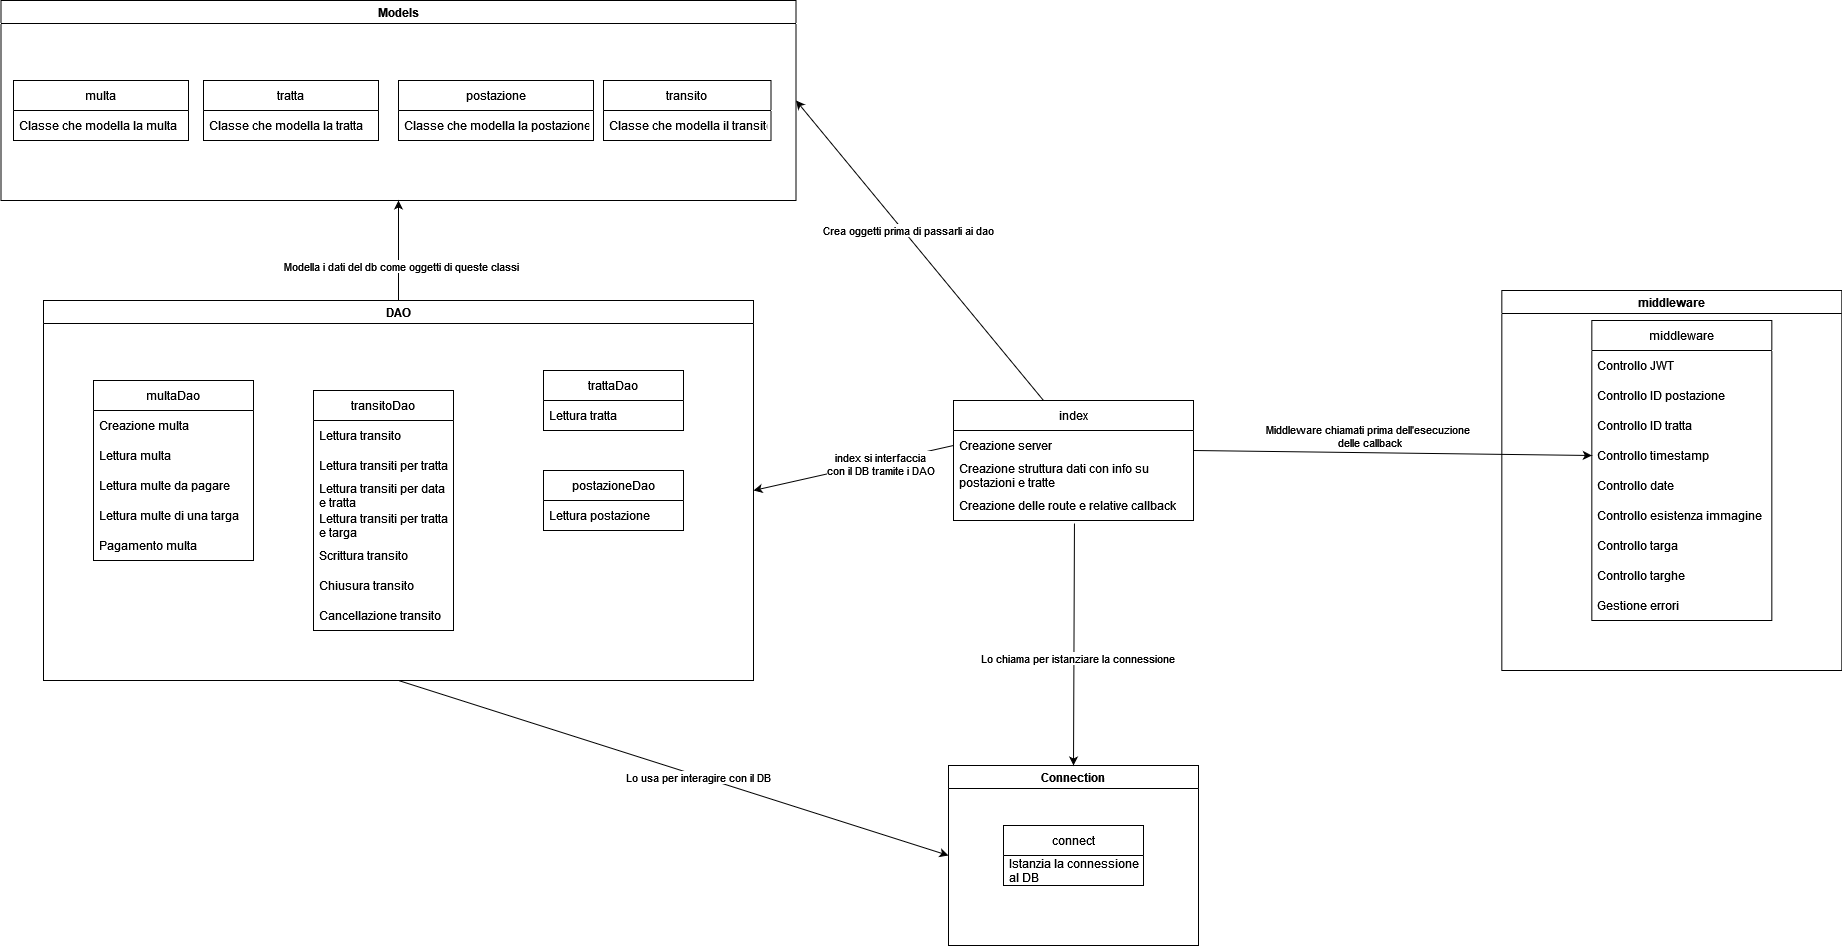
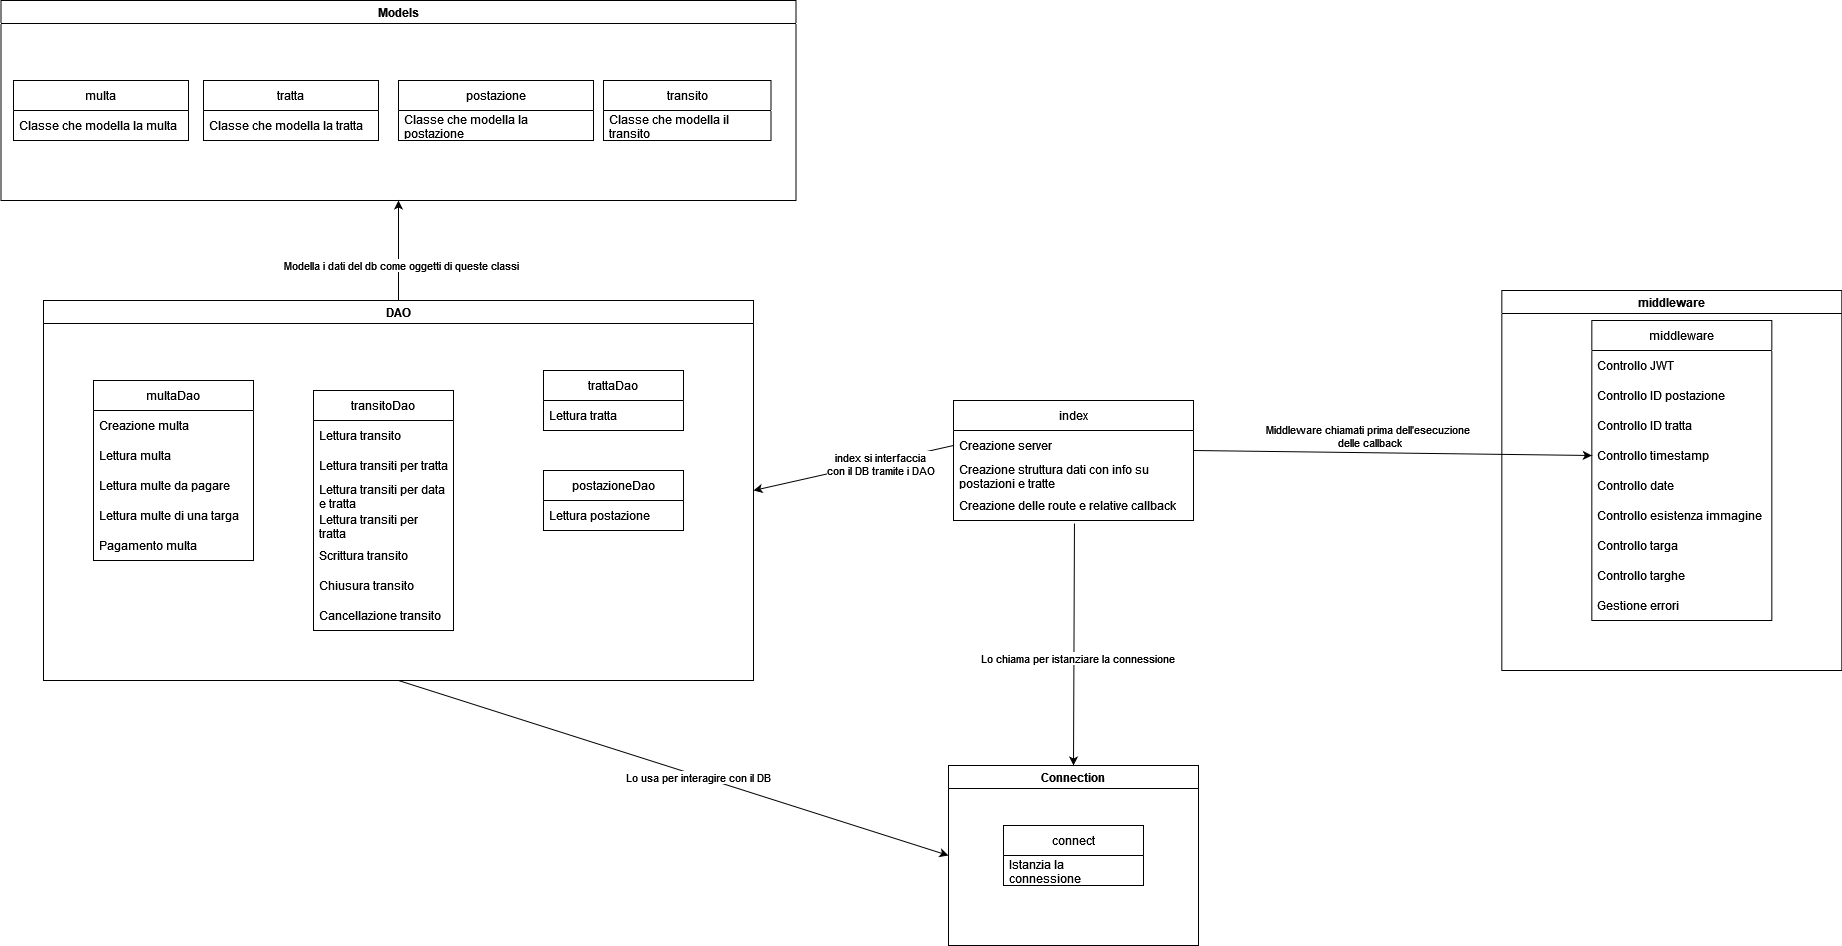
Tolto commento su index e fixato use case

diff --git a/index.js b/index.js
@@ -196,13 +196,6 @@ app.post('/nuovarilevazione/:postazione', async (req, res) => {
         return res.status(500).send({ "errore": "Errore interno del server" });
     }
     finally {
-        /*
-        POTREI DOVER FARE COSI' SE NON CANCELLA BENE
-        var tempFile = fs.openSync(filePath, 'r');
-        fs.closeSync(tempFile);
-        fs.unlinkSync(filePath);
-        */
-        //prima però provo async
         try {
             unlink(filePath, () => { });
         } catch (error) {
@@ -221,7 +214,7 @@ app.get('/listaveicoli/:tratta', async (req, res) => {
     let timestampFine = parseInt(req.timestampFine);
     try {
         let data;
-        //I timestamp sono posti a -1 dal middleware se assenti nell'header della richiesta
+        //I timestamp sono posti a -1 dal middleware se entrambi assenti nell'header della richiesta
         if (timestampInizio === -1) data = await TransitoDao.getTransitiTratta(tratta);
         else data = await TransitoDao.getTransitiTrattaData(tratta, timestampInizio, timestampFine);
         let listaTransiti = data.map(x => x.dataValues);
